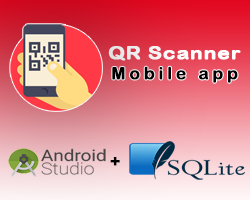
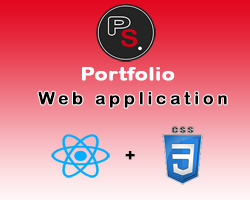
Add new project

diff --git a/src/components/Projects/Project.jsx b/src/components/Projects/Project.jsx
@@ -18,11 +18,10 @@ function Project() {
             </div>
             <div className='projects'>
                 <div className='project-content'>
+                    <ProjectCard img={img3} link="https://github.com/SathsaraPSF/My-Portfolio" />
                     <ProjectCard img={img1} link="https://github.com/SathsaraPSF/MyToDoList" />
                     <ProjectCard img={img2} link="https://github.com/SathsaraPSF/SPCreations-Web-Site" />
                     <ProjectCard img={img4} link="https://github.com/Gold-Diggers-Team/AgroPest-Mobile-Application" />
-                    <ProjectCard img={img3} link="https://github.com/Gold-Diggers-Team/AgroPest-Mobile-Application" />
-
                 </div>
             </div>
         </div>
